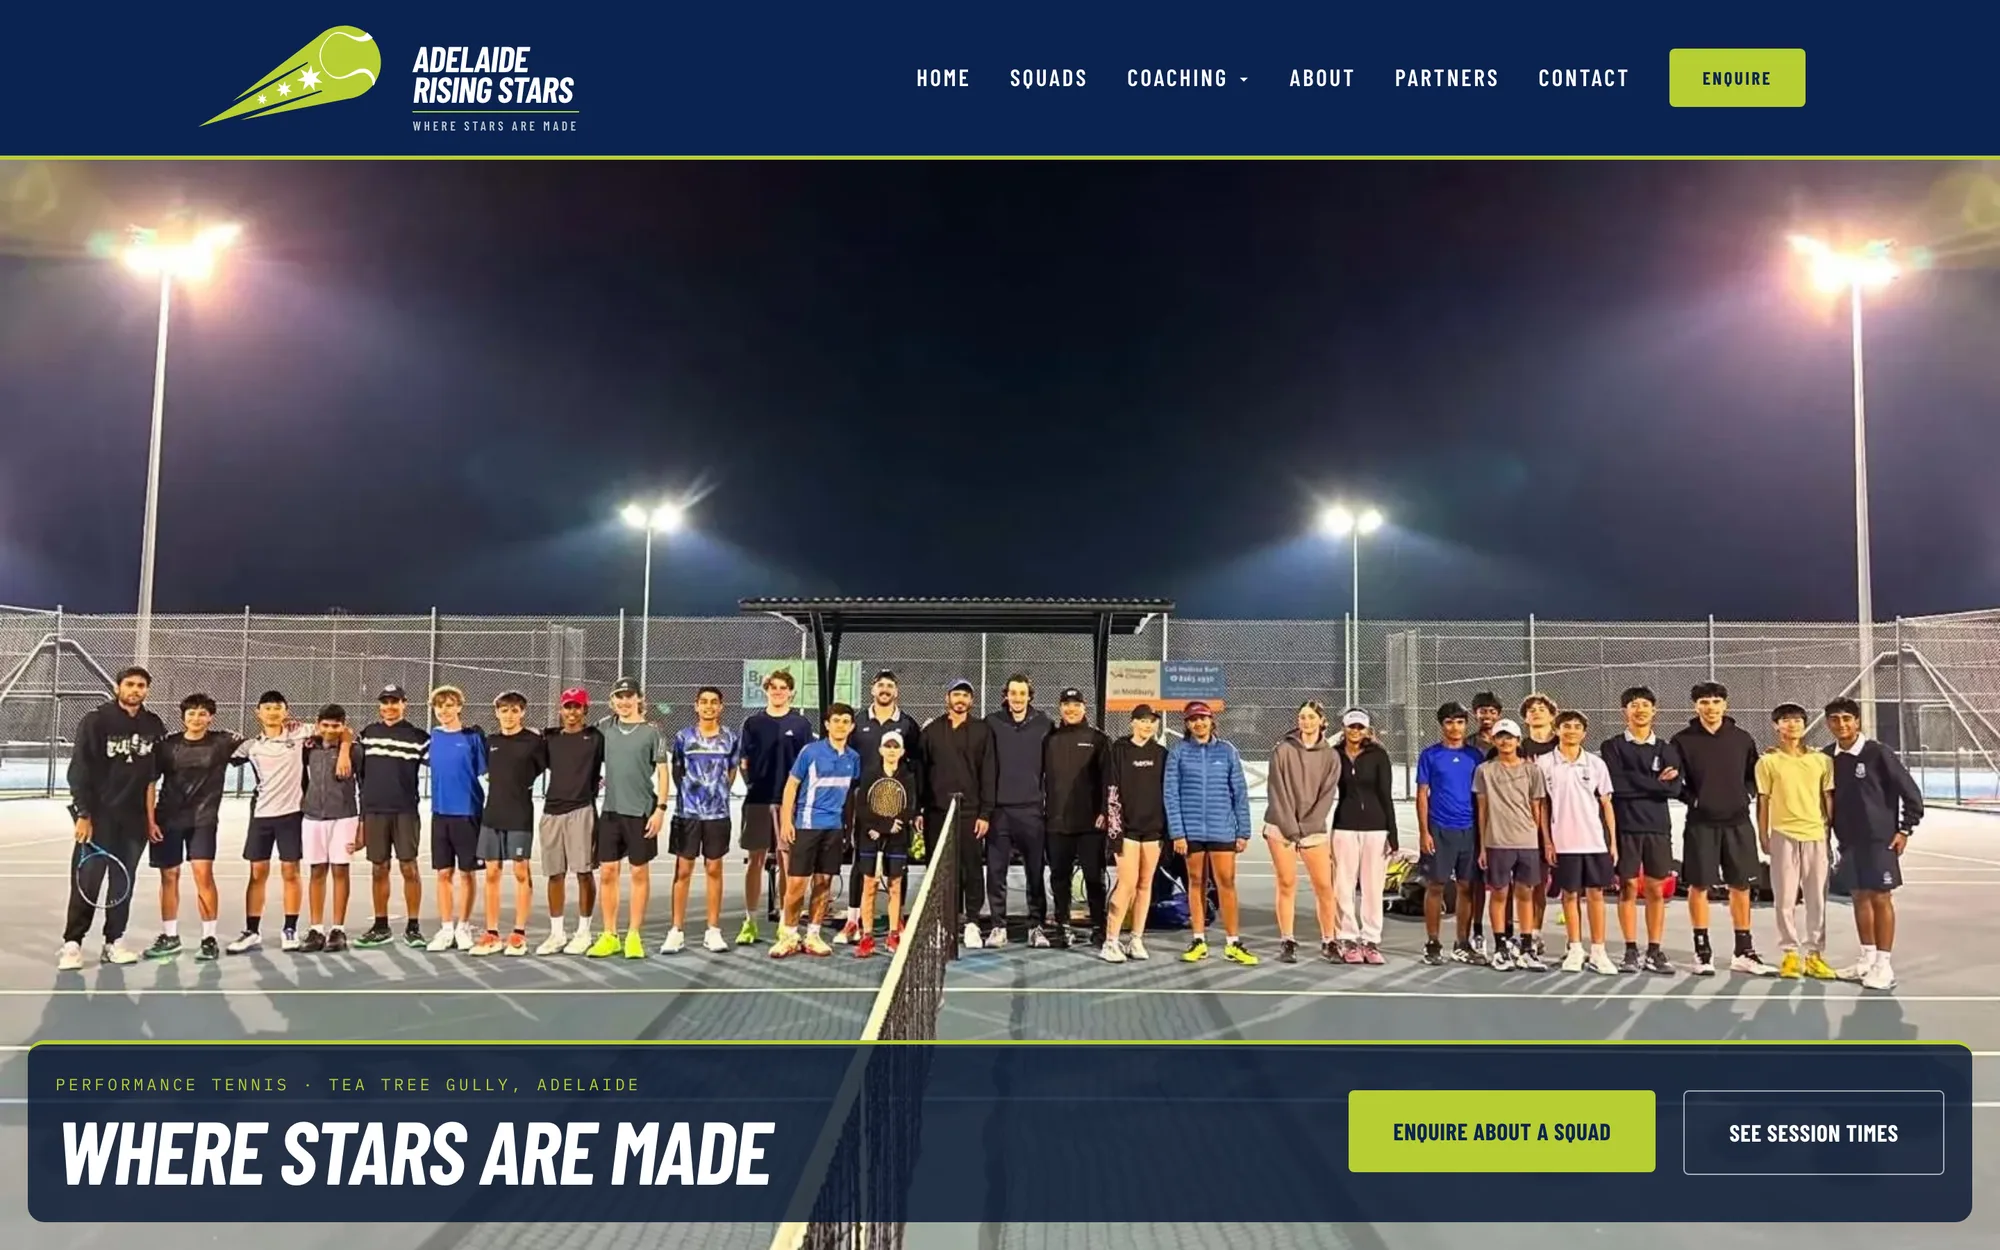
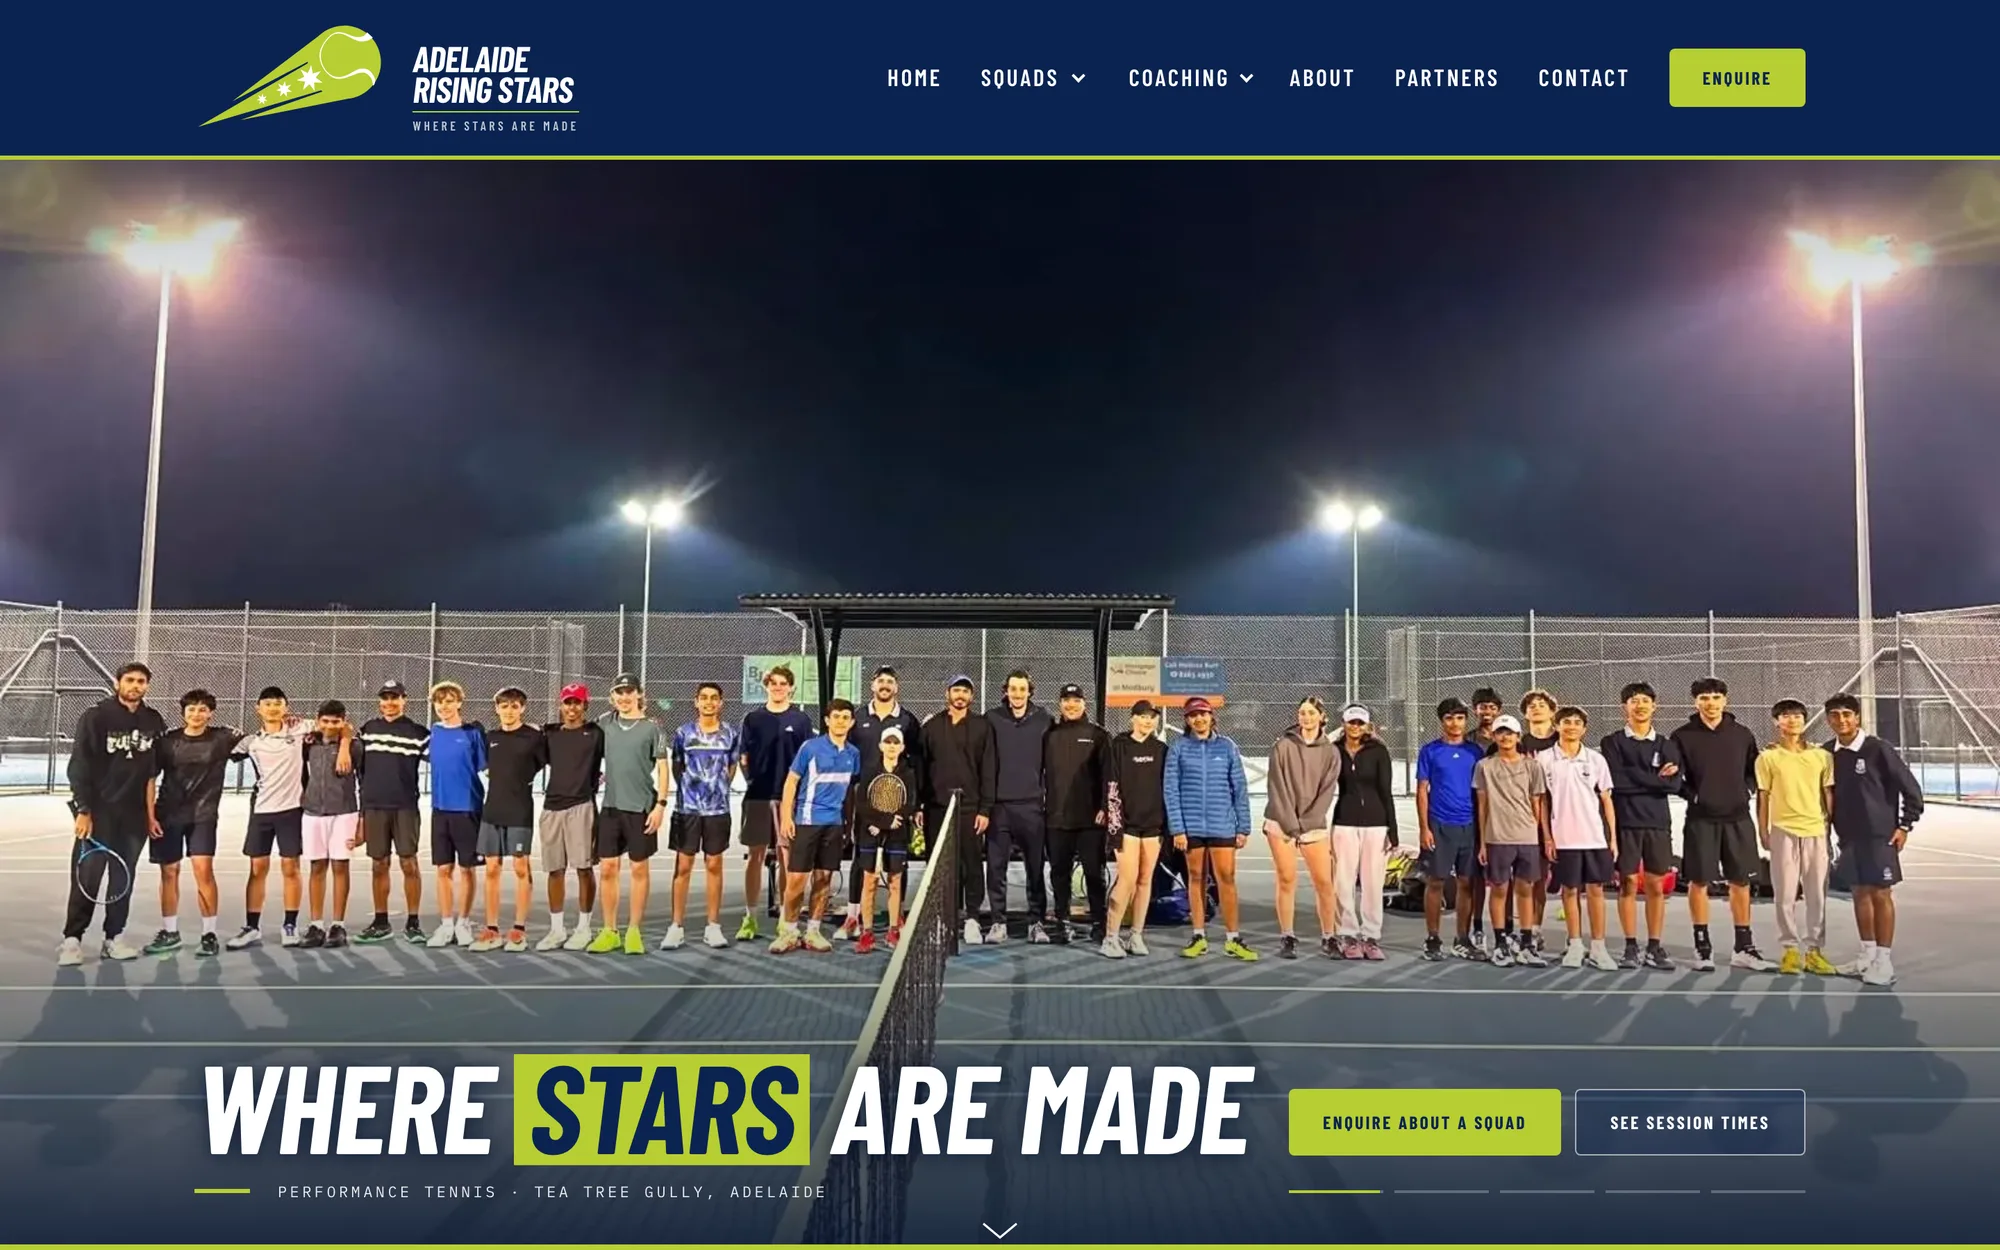
New MetaPlay and Adelaide Rising Stars captures
MetaPlay's cover is the redesigned landing page, cropped to its top
16:10. The ARS home and squads captures are fresh from the live site.
Alt text for both covers describes what they now show.

diff --git a/src/lib/projects.ts b/src/lib/projects.ts
@@ -234,7 +234,7 @@ export const projects: Project[] = [
       src: "/images/projects/metaplay/landing.webp",
       width: 2000,
       height: 1250,
-      alt: "MetaPlay landing page: personalised gaming hub with account sign-up and Google sign-in",
+      alt: "MetaPlay landing page: the headline Your whole game life, on one shelf, with Start your shelf and Continue with Google buttons beside a grid of game covers.",
       url: "metaplay-g2q7.onrender.com",
       href: "https://metaplay-g2q7.onrender.com/",
     },
@@ -274,7 +274,7 @@ export const projects: Project[] = [
       src: "/images/projects/adelaide-rising-stars/home.webp",
       width: 2000,
       height: 1250,
-      alt: "Adelaide Rising Stars home page: a night-time squad photo on court under the headline Where Stars Are Made, with Enquire about a squad and See session times buttons",
+      alt: "Adelaide Rising Stars home page: a night-time squad photo on court, with the headline Where Stars Are Made and Enquire about a squad and See session times buttons across its foot.",
       url: "arstennisacademy.com.au",
       href: "https://arstennisacademy.com.au",
     },
